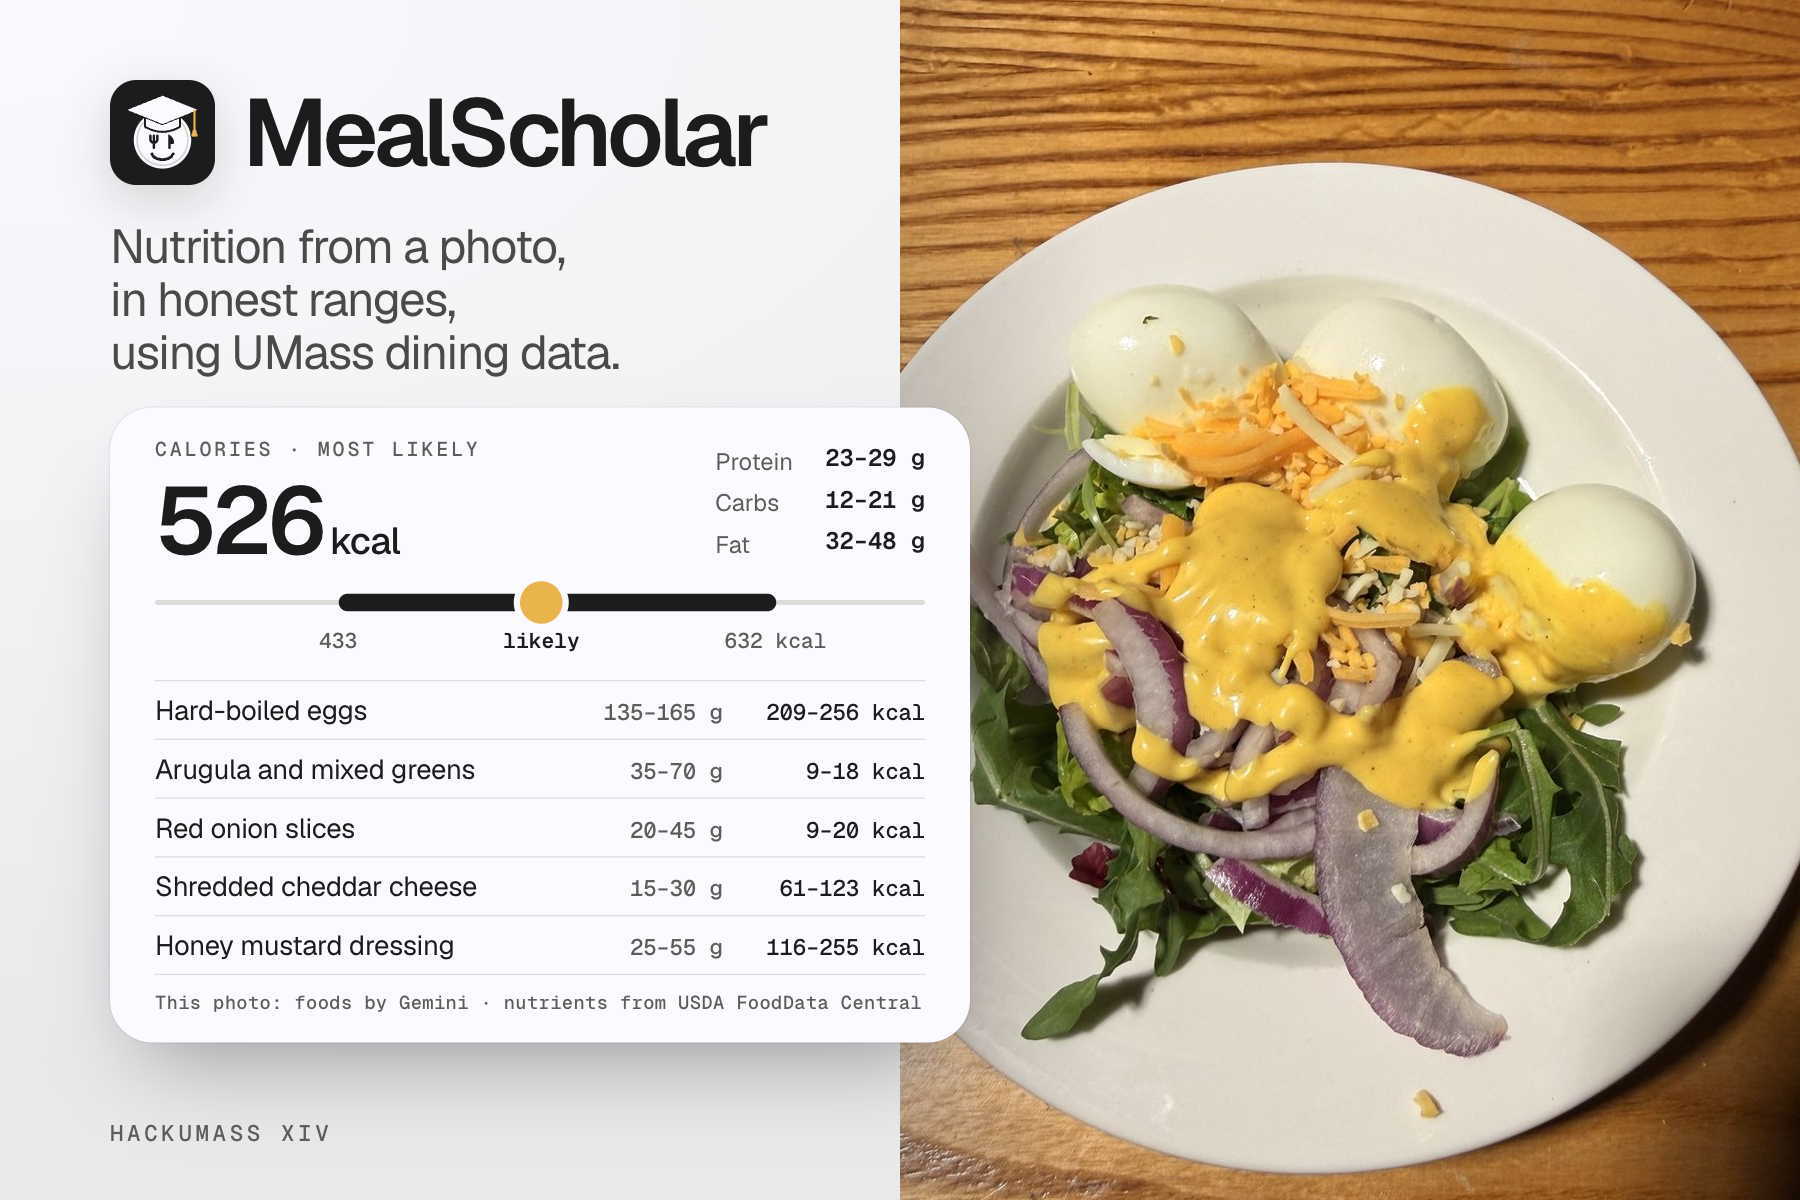
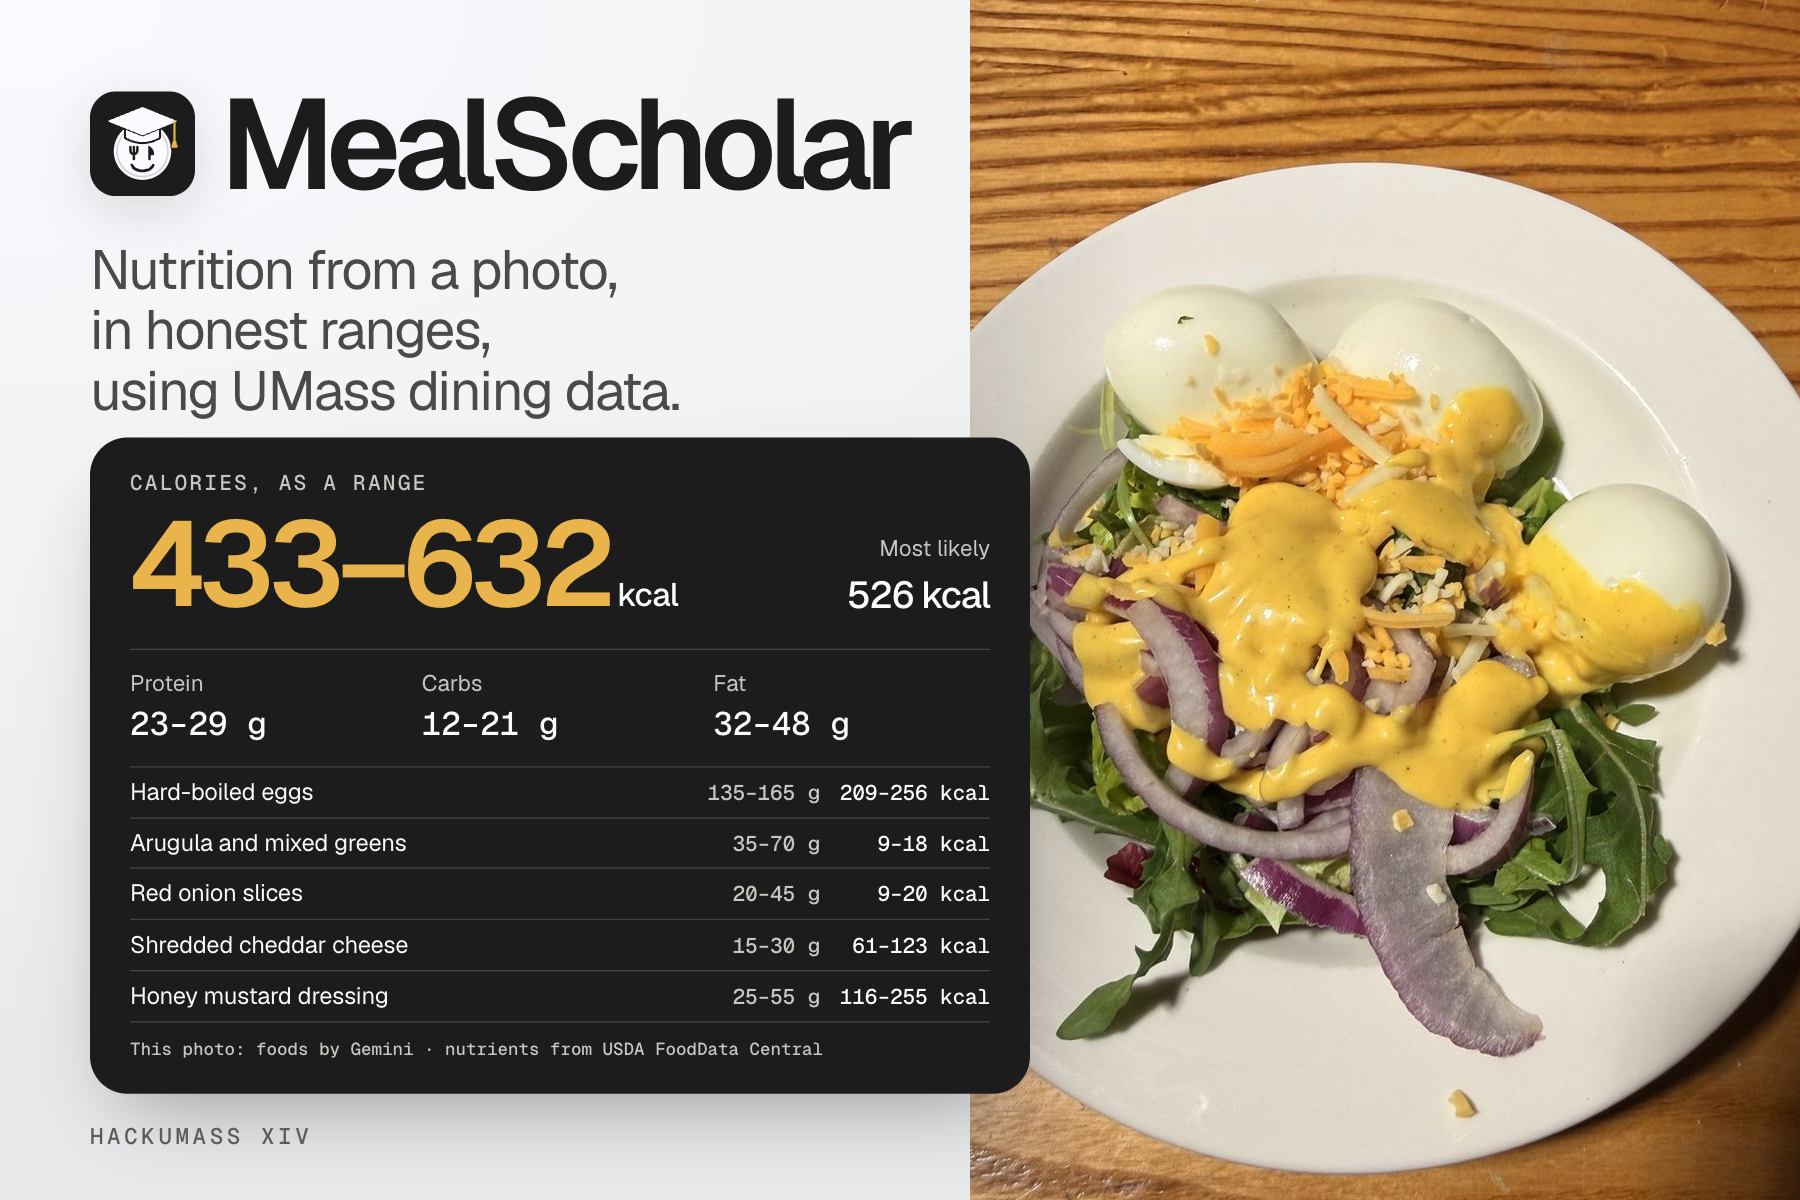
Polish submission thumbnail hierarchy and range visibility

diff --git a/brand/devpost-thumbnail.html b/brand/devpost-thumbnail.html
@@ -9,40 +9,35 @@
 <style>
 @font-face { font-family: Geist; src: url(../web/fonts/geist.woff2) format("woff2"); font-weight: 100 900; }
 @font-face { font-family: "Geist Mono"; src: url(../web/fonts/geist-mono.woff2) format("woff2"); font-weight: 100 900; }
-:root { --ink: #1C1C1C; --ink-2: #4A4A48; --label: #5C5C59; --paper: #FAFAFF; --line: #DADDD8; --gold: #E9B44C; }
+:root { --ink: #1C1C1C; --ink-2: #4A4A48; --label: #5C5C59; --paper: #FAFAFF; --card-muted: #C7C7C1; --card-line: #44453F; --gold: #E9B44C; }
 * { box-sizing: border-box; margin: 0; padding: 0; }
 html, body { width: 1440px; height: 960px; overflow: hidden; }
 body { position: relative; font-family: Geist, sans-serif; color: var(--ink); -webkit-font-smoothing: antialiased;
   background: radial-gradient(110% 90% at 0% 0%, #FAFAFF 0%, #F1F2F3 55%, #E7E9EA 100%); }
-.photo { position: absolute; right: 0; top: 0; width: 720px; height: 960px; background: url(devpost-thumbnail-photo.jpg) center / cover; }
-.photo::after { content: ""; position: absolute; inset: 0; background: linear-gradient(90deg, rgba(28,28,28,.18), transparent 22%); }
-.copy { position: absolute; left: 88px; top: 64px; width: 600px; }
-.lockup { display: flex; align-items: center; gap: 22px; }
-.mark { width: 84px; height: 84px; filter: drop-shadow(0 12px 20px rgba(28,28,28,.18)); }
-.name { font-size: 76px; font-weight: 600; letter-spacing: -0.05em; line-height: 1; }
-.tagline { margin-top: 28px; font-size: 38px; line-height: 1.12; font-weight: 400; letter-spacing: -0.03em; color: var(--ink-2); }
-.card { position: absolute; left: 88px; top: 326px; width: 688px; padding: 26px 36px 22px; border-radius: 34px; background: var(--paper);
-  box-shadow: 0 36px 70px -26px rgba(28,28,28,.42), 0 0 0 1px rgba(28,28,28,.06); }
-.head { display: grid; grid-template-columns: 1fr auto; align-items: end; gap: 24px; }
-.eyebrow { font: 500 16px/1 "Geist Mono", monospace; letter-spacing: .14em; text-transform: uppercase; color: var(--label); }
-.kcal { margin-top: 10px; font-size: 30px; font-weight: 500; letter-spacing: -0.02em; line-height: 1; }
-.kcal b { font-size: 76px; font-weight: 600; letter-spacing: -0.05em; }
-.macros { list-style: none; display: grid; gap: 8px; padding-bottom: 6px; }
-.macros li { display: grid; grid-template-columns: 74px auto; gap: 14px; font-size: 19px; color: var(--label); }
-.macros b { font: 600 19px/1.1 "Geist Mono", monospace; color: var(--ink); text-align: right; }
-.bar { position: relative; height: 16px; margin: 20px 0 0; }
-.bar .track { position: absolute; inset: 6px 0; border-radius: 2px; background: var(--line); }
-.bar .span { position: absolute; top: 1px; bottom: 1px; left: 23.8%; right: calc(100% - 80.6%); border-radius: 8px; background: var(--ink); }
-.bar .likely { position: absolute; top: -9px; left: 50.2%; width: 34px; height: 34px; margin-left: -17px; border-radius: 50%; background: var(--gold); box-shadow: 0 0 0 5px var(--paper); }
-.ticks { position: relative; height: 22px; margin-top: 14px; font: 500 17px/1 "Geist Mono", monospace; color: var(--label); }
-.ticks span { position: absolute; transform: translateX(-50%); white-space: nowrap; }
-.ticks b { position: absolute; transform: translateX(-50%); color: var(--ink); font-weight: 600; }
-.foods { list-style: none; margin-top: 18px; border-top: 1px solid var(--line); }
-.foods li { display: grid; grid-template-columns: 1fr 128px 150px; align-items: baseline; gap: 12px; padding: 9px 0; border-bottom: 1px solid var(--line); font-size: 22px; letter-spacing: -0.01em; }
-.foods .g, .foods .k { font: 500 18px/1 "Geist Mono", monospace; text-align: right; }
-.foods .g { color: var(--label); }
-.source { margin-top: 12px; font: 500 15px/1.3 "Geist Mono", monospace; letter-spacing: .02em; color: var(--label); }
-.event { position: absolute; left: 88px; bottom: 44px; font: 500 18px/1 "Geist Mono", monospace; letter-spacing: .16em; text-transform: uppercase; color: var(--label); }
+.photo { position: absolute; right: 0; top: 0; width: 664px; height: 960px; background: url(devpost-thumbnail-photo.jpg) center / cover; }
+.photo::after { content: ""; position: absolute; inset: 0; background: linear-gradient(90deg, rgba(28,28,28,.12), transparent 20%); }
+.copy { position: absolute; left: 72px; top: 64px; width: 728px; }
+.lockup { display: flex; align-items: center; gap: 20px; }
+.mark { width: 84px; height: 84px; flex: none; filter: drop-shadow(0 12px 20px rgba(28,28,28,.14)); }
+.name { font-size: 102px; font-weight: 600; letter-spacing: -0.06em; line-height: 1; }
+.tagline { margin-top: 26px; font-size: 44px; line-height: 1.1; font-weight: 400; letter-spacing: -0.03em; color: var(--ink-2); }
+.card { position: absolute; left: 72px; top: 350px; width: 752px; padding: 28px 32px 26px; border-radius: 30px; background: var(--ink); color: var(--paper);
+  box-shadow: 0 30px 64px -24px rgba(28,28,28,.4); }
+.head { display: grid; grid-template-columns: 1fr auto; align-items: end; gap: 16px; }
+.eyebrow { font: 500 17px/1 "Geist Mono", monospace; letter-spacing: .1em; text-transform: uppercase; color: var(--card-muted); }
+.kcal { margin-top: 8px; font-size: 26px; font-weight: 500; letter-spacing: -0.02em; line-height: 1; white-space: nowrap; }
+.kcal b { font-size: 96px; font-weight: 600; letter-spacing: -0.055em; color: var(--gold); }
+.likely { padding-bottom: 4px; font-size: 18px; line-height: 1.3; color: var(--card-muted); text-align: right; }
+.likely b { display: block; margin-top: 6px; font-size: 30px; font-weight: 500; letter-spacing: -0.03em; color: var(--paper); }
+.macros { list-style: none; display: grid; grid-template-columns: repeat(3, 1fr); gap: 12px; margin-top: 20px; padding-top: 16px; border-top: 1px solid var(--card-line); }
+.macros li { font-size: 18px; line-height: 1.2; color: var(--card-muted); }
+.macros b { display: block; margin-top: 6px; font: 500 26px/1.2 "Geist Mono", monospace; color: var(--paper); }
+.foods { list-style: none; margin-top: 18px; border-top: 1px solid var(--card-line); }
+.foods li { display: grid; grid-template-columns: minmax(0, 1fr) 112px 124px; align-items: baseline; gap: 12px; padding: 8px 0; border-bottom: 1px solid var(--card-line); font-size: 19px; line-height: 1.25; letter-spacing: -0.01em; }
+.foods .g, .foods .k { font: 500 17px/1.2 "Geist Mono", monospace; text-align: right; white-space: nowrap; }
+.foods .g { color: var(--card-muted); }
+.source { margin-top: 12px; font: 500 14px/1.4 "Geist Mono", monospace; color: var(--card-muted); }
+.event { position: absolute; left: 72px; bottom: 42px; font: 500 18px/1 "Geist Mono", monospace; letter-spacing: .16em; text-transform: uppercase; color: var(--label); }
 </style>
 </head>
 <body>
@@ -54,17 +49,16 @@ body { position: relative; font-family: Geist, sans-serif; color: var(--ink); -w
 <article class="card">
   <div class="head">
     <div>
-      <p class="eyebrow">Calories · most likely</p>
-      <p class="kcal"><b>526</b> kcal</p>
+      <p class="eyebrow">Calories, as a range</p>
+      <p class="kcal"><b>433–632</b> kcal</p>
     </div>
-    <ul class="macros">
-        <li><span>Protein</span><b>23–29 g</b></li>
-        <li><span>Carbs</span><b>12–21 g</b></li>
-        <li><span>Fat</span><b>32–48 g</b></li>
-    </ul>
+    <p class="likely">Most likely<b>526 kcal</b></p>
   </div>
-  <div class="bar"><div class="track"></div><div class="span"></div><div class="likely"></div></div>
-  <p class="ticks"><span style="left:23.8%">433</span><b style="left:50.2%">likely</b><span style="left:80.6%">632 kcal</span></p>
+  <ul class="macros">
+    <li><span>Protein</span><b>23–29 g</b></li>
+    <li><span>Carbs</span><b>12–21 g</b></li>
+    <li><span>Fat</span><b>32–48 g</b></li>
+  </ul>
   <ul class="foods">
       <li><span class="n">Hard-boiled eggs</span><span class="g">135–165 g</span><span class="k">209–256 kcal</span></li>
       <li><span class="n">Arugula and mixed greens</span><span class="g">35–70 g</span><span class="k">9–18 kcal</span></li>

diff --git a/TODO.md b/TODO.md
@@ -77,6 +77,7 @@ These come from the recommendations in `BENCHMARK.md`, ordered by measured impac
 - [ ] **Joseph or Harsh**: put the numeric Gemini project number in `submissions/devpost.md`. We only have the project ID (`gen-lang-client-…`). The draft explains where to find the number.
 - [ ] **Harsh**: if campus menu matching (section 2) isn't live when you submit, submit the story as written. If it is, make the two swaps in `submissions/devpost.md`.
 - [ ] **Gabby**: add the video link (YouTube, Vimeo or Youku) and the gallery images to the Devpost form.
+- [x] **Joseph**: improve the Devpost thumbnail's gallery-size hierarchy (#100). Use `brand/devpost-thumbnail.png` (1800×1200, 3:2); its editable HTML keeps the real salad result and makes the calorie range the primary number.
 - [ ] The final deadline is 9:00 AM on hackumass.com but 10:00 AM on Devpost. Go by 9:00 AM.
 - [ ] A demo account with a few days already logged, so Today and This week aren't empty.
 - [ ] Set `MEALSCHOLAR_DEMO_VERIFY_LINK` on the demo server, so sign-up works without a real email service. Only needed once the sign-in screens are on. It lets anyone confirm whatever address they type, so the favorites digest could go to someone else's email (#11 review).
